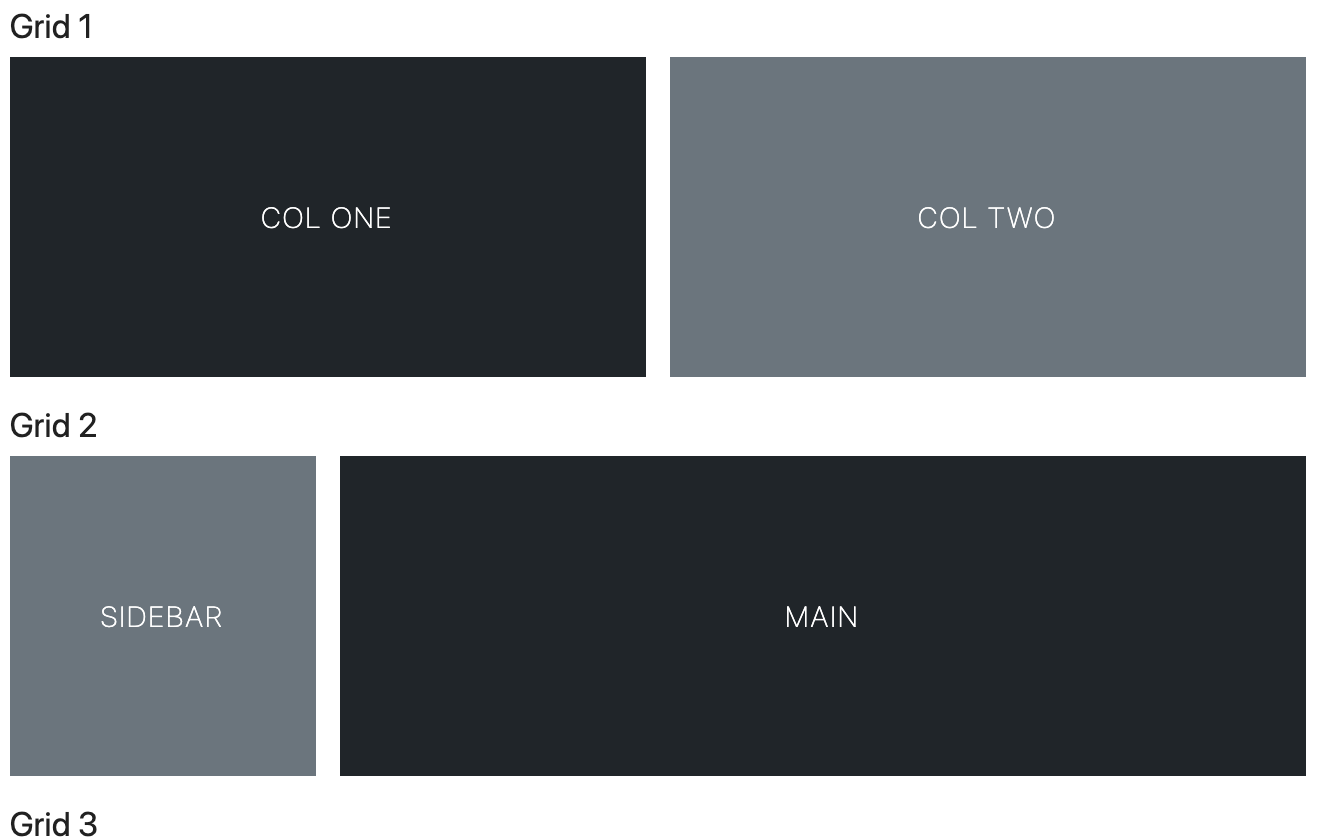
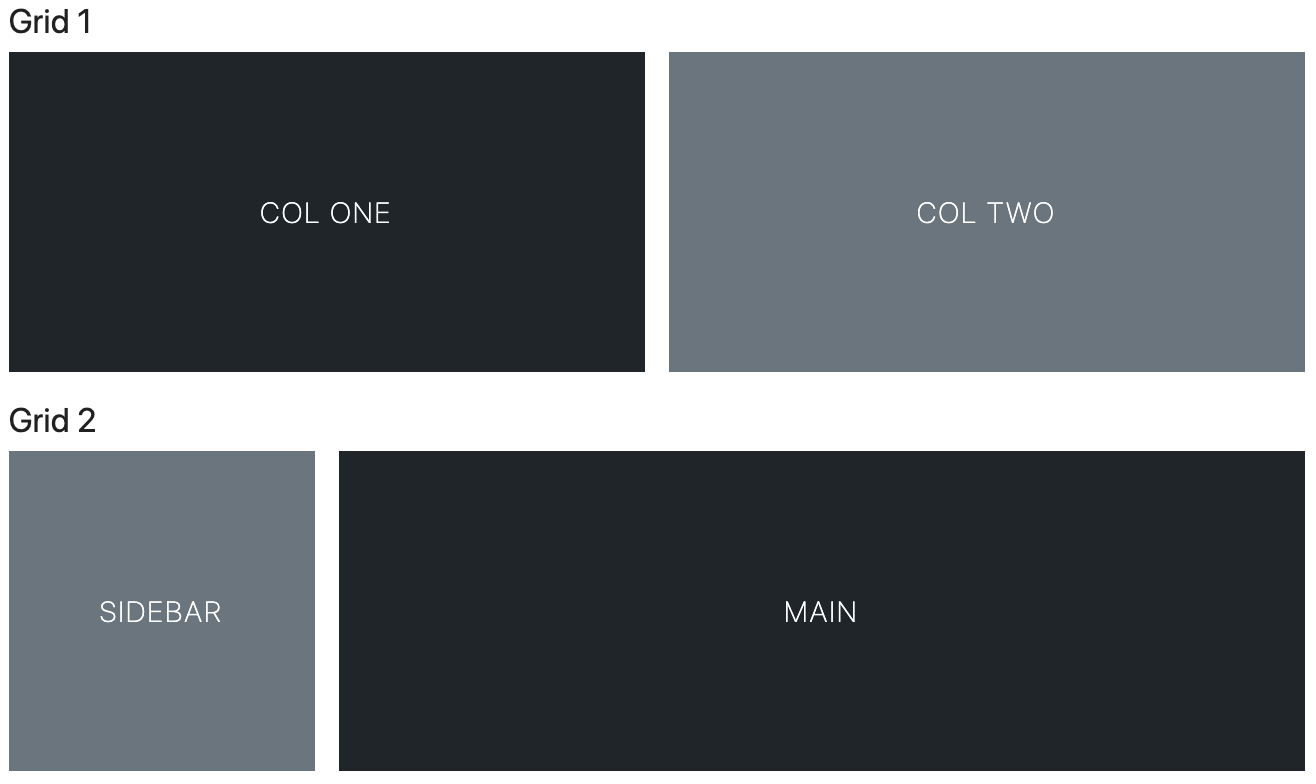
Add better images for README.md

diff --git a/README.md b/README.md
@@ -1,7 +1,7 @@
-# Various Boostrap Grid Layout Examples
+# <a href="https://tariq-k-dev.github.io/bootstrap-grid-examples/index.html" target="_blank">Various Boostrap Grid Layout Examples</a>
 A simple web page using Bootstrap 5 CSS framework with various layout examples, as illustrated in the screenshots below:
 
 ![bootstrap-grid-ex-1](img/bootstrap-grid-ex-1.png)
 
-![bootstrap-grid-example](img/bootstrap-grid-example.png)
+![bootstrap-grid-example](img/bootstrap-grid-ex-2.png)
 
